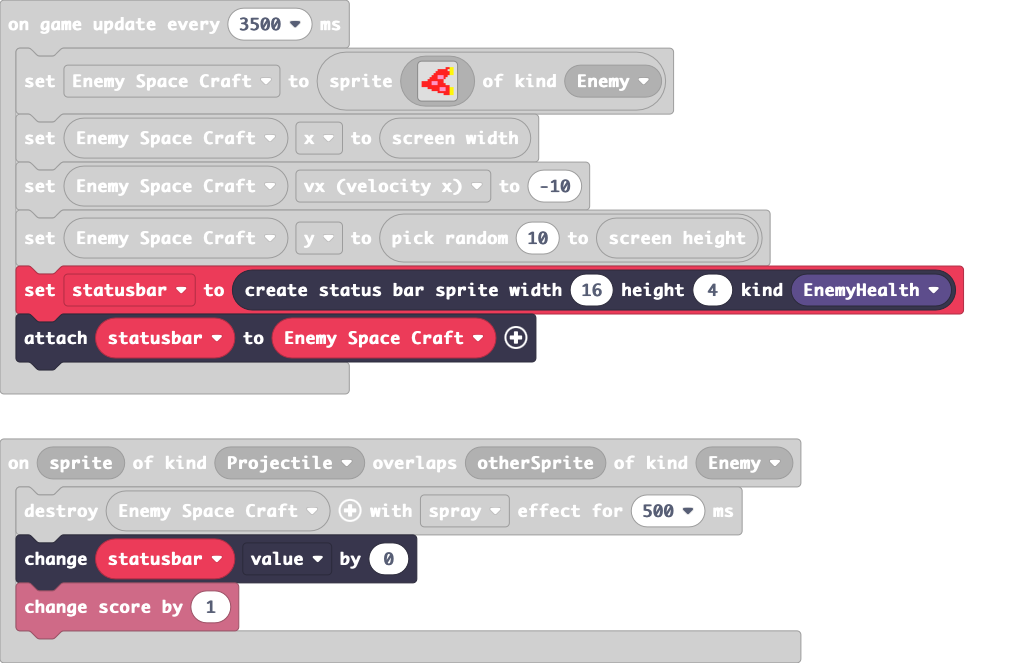
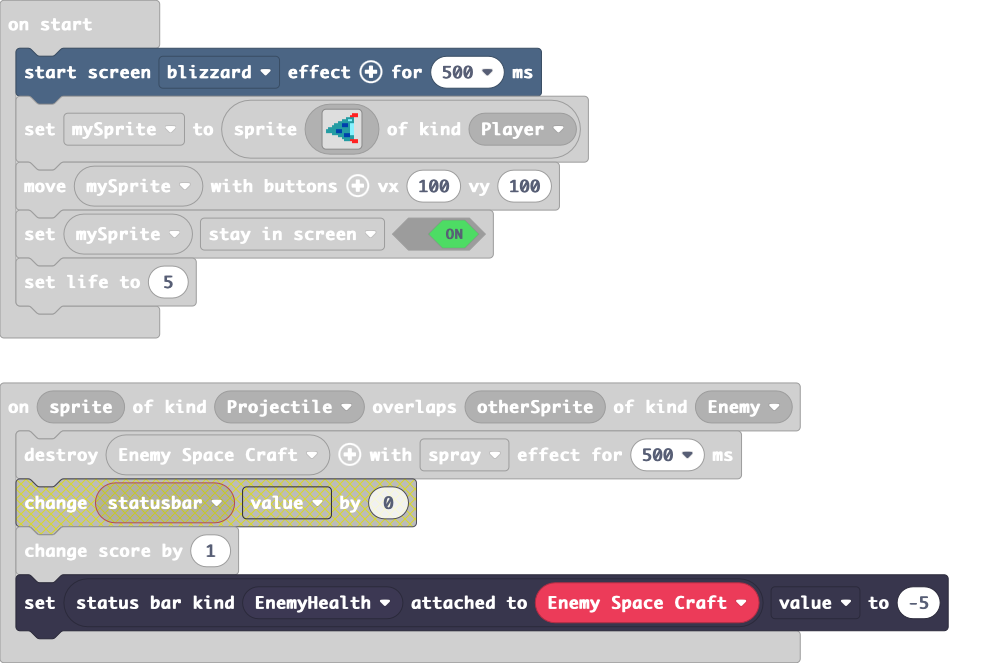
Health Bar Changes

diff --git a/main.ts b/main.ts
@@ -20,8 +20,8 @@ controller.A.onEvent(ControllerButtonEvent.Pressed, function () {
 })
 sprites.onOverlap(SpriteKind.Projectile, SpriteKind.Enemy, function (sprite, otherSprite) {
     Enemy_Space_Craft.destroy(effects.spray, 500)
-    statusbar.value += 0
     info.changeScoreBy(1)
+    statusbars.getStatusBarAttachedTo(StatusBarKind.EnemyHealth, Enemy_Space_Craft).value = -5
 })
 sprites.onOverlap(SpriteKind.Player, SpriteKind.Enemy, function (sprite, otherSprite) {
     info.changeLifeBy(-1)
@@ -32,7 +32,7 @@ let statusbar: StatusBarSprite = null
 let Enemy_Space_Craft: Sprite = null
 let projectile: Sprite = null
 let mySprite: Sprite = null
-effects.starField.startScreenEffect()
+effects.blizzard.startScreenEffect(500)
 mySprite = sprites.create(img`
     . . . . . . . . . . . . . 2 2 2 
     . . . . . . . . . . . . 2 2 2 2 
